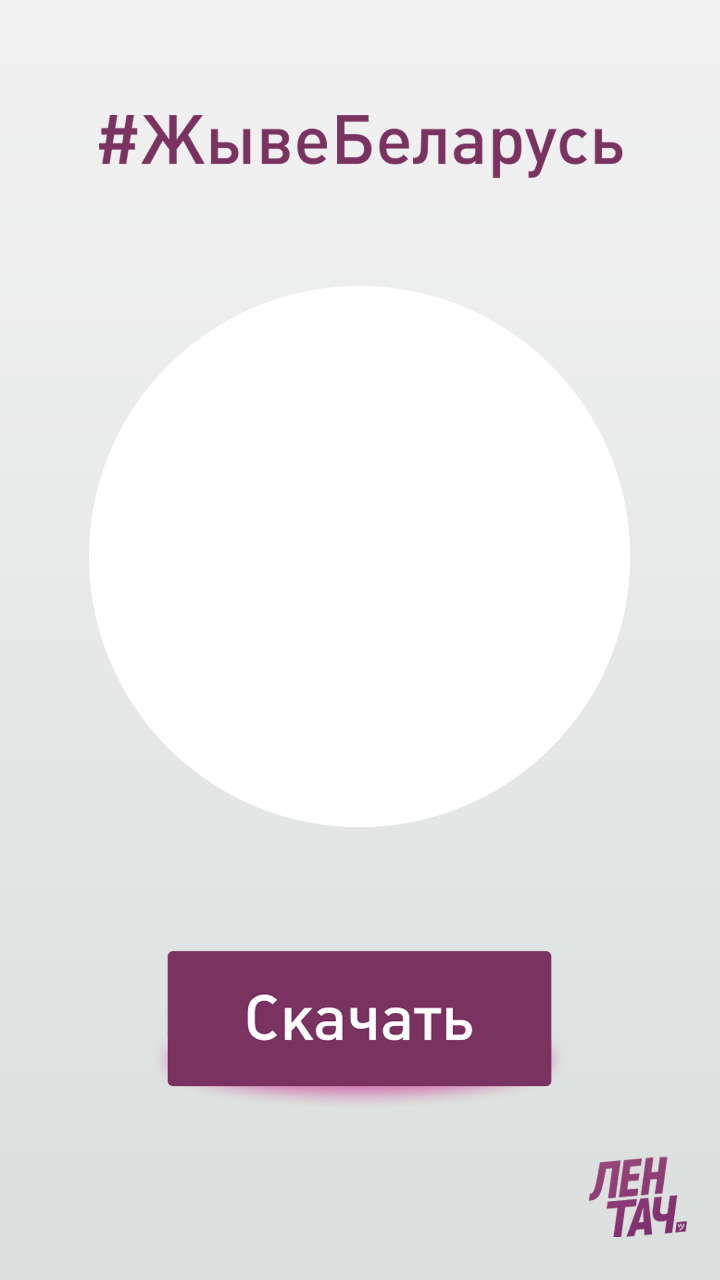
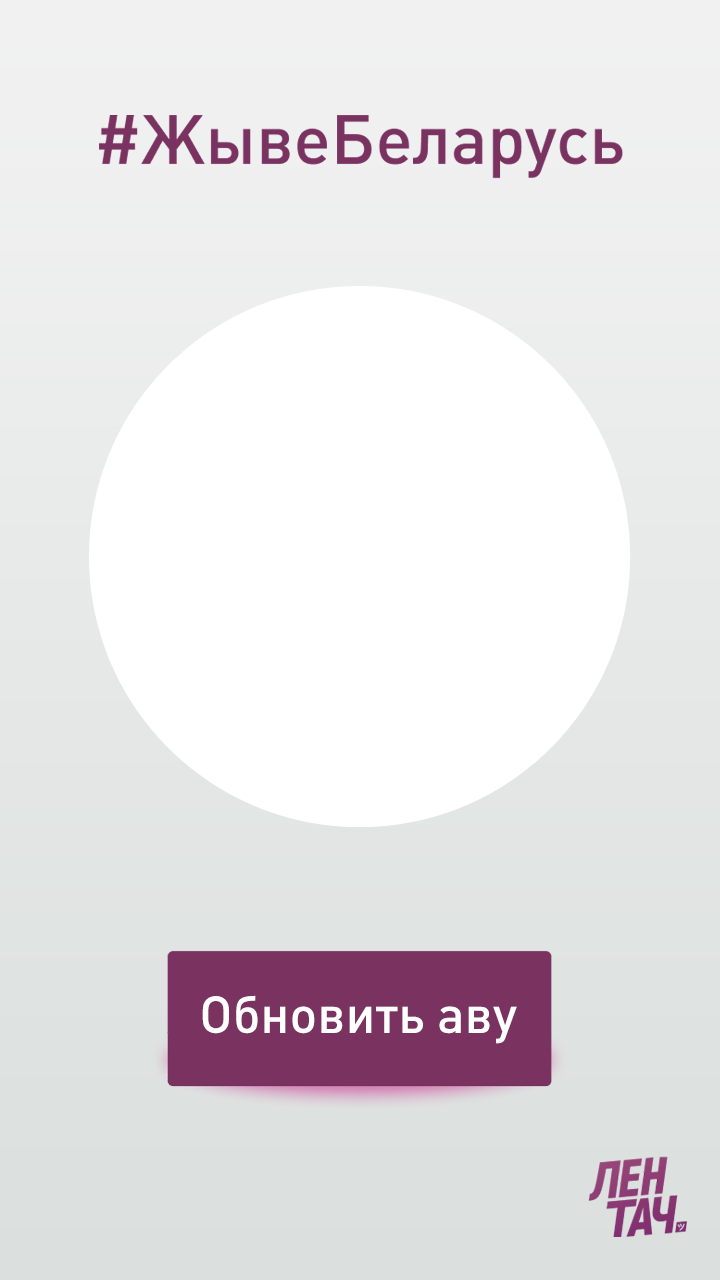
changed upload type

Changed region(s): [[0.275, 0.75, 0.7333, 0.8125]]

diff --git a/main.js b/main.js
@@ -44,6 +44,7 @@ function touchHandler(event)
 }
 
 
+let t = -1
 
 document.addEventListener("touchstart", touchHandler, {passive:false});
 document.addEventListener("touchmove", touchHandler, {passive:false});
@@ -52,19 +53,7 @@ document.addEventListener("touchcancel", touchHandler, {passive:false});
 
 
 
-function click_mouse(event)
-{
-    let y = event.clientY/document.documentElement.clientHeight
 
-    console.log(y)
-
-    if (y>0.74 && y<0.85) {
-        download()
-    }
-
-
-
-}
 
 
 let crop = {x:4.93,x2:89.43,y:0,y2:100}
@@ -258,7 +247,6 @@ function supports(handler) {
     return false;
 };
 
-let t = -1
 function checker(event)
 {
 
@@ -280,24 +268,71 @@ function checker(event)
     }
 
 
-    if (event.detail.type==="VKWebAppCallAPIMethodResult"){
-        crop = event.detail.data.response[0].crop_photo.crop
-        var sz = event.detail.data.response[0].crop_photo.photo.sizes
-        let photo_url = sz[sz.length-1].url
+    if (event.detail.type==="VKWebAppCallAPIMethodResult") {
+
+        if (event.detail.data.request_id === "0")
+        {
+            crop = event.detail.data.response[0].crop_photo.crop
+            var sz = event.detail.data.response[0].crop_photo.photo.sizes
+            photo_url = sz[sz.length-1].url
+            img.src = photo_url
+        }
+        else if (event.detail.data.request_id === "1") {
+
+            let upload_url = event.detail.data.response[0].upload_url
 
 
-        img.src = photo_url
+            var xhr = new XMLHttpRequest();
+            xhr.open('POST', upload_url, true);
+            xhr.onload = function (e) {
+                // do something to response
+                console.log(e);
+            };
+            xhr.send(canvas.toDataURL());
+
+
+
+        }
+
+
 
     }
 
 
 }
 
+function click_mouse(event)
+{
+    let y = event.clientY/document.documentElement.clientHeight
+
+    console.log(y)
+
+    if (y>0.74 && y<0.85) {
+        //download()
+
+        send("VKWebAppCallAPIMethod", {
+            "method":"photos.getOwnerPhotoUploadServer",
+            "request_id":"1",
+            "params": {
+                "access_token":t,
+                "v":"5.122"
+            }});
+    }
+
+
+
+}
+
+
+
 
 
 send("VKWebAppInit", {});
 send("VKWebAppGetAuthToken", {"app_id": 7565667,"scope":""});
 subscribe(checker)
+
+
+
 
 
 

diff --git a/index.html b/index.html
@@ -53,7 +53,7 @@
 
 
 
-    <script src="main.js?v=0.97"></script>
+    <script src="main.js?v=0.98"></script>
 </body>
 
 
